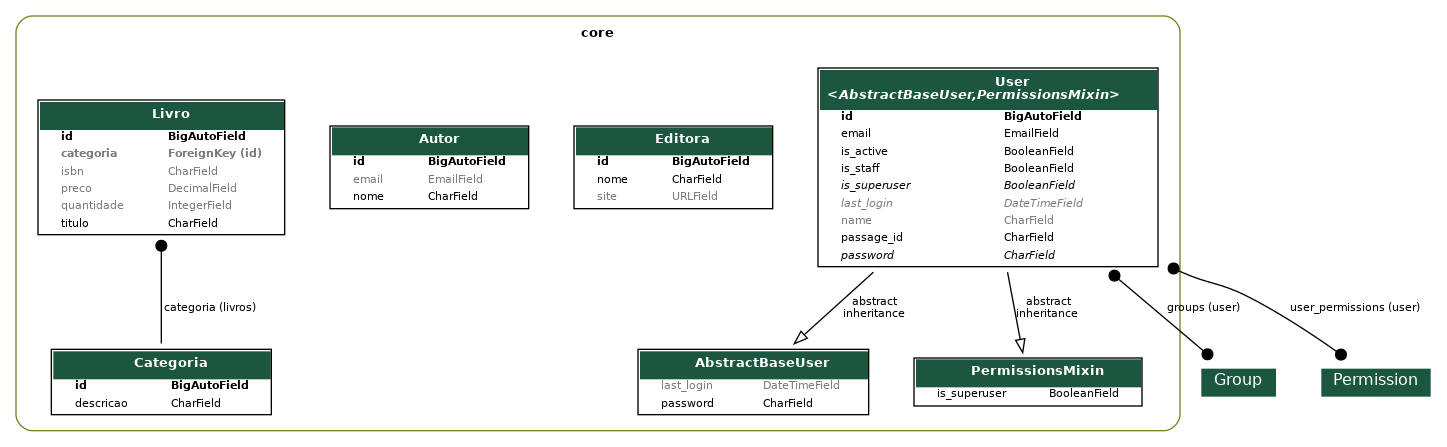
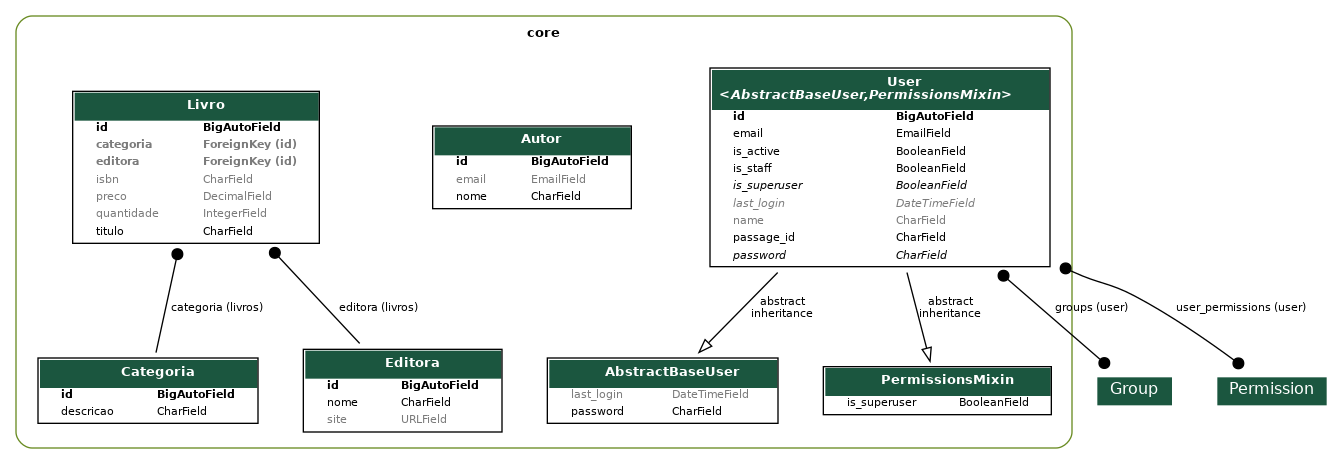
feat: inclusão do relacionamento de Livro com Editora.

diff --git a/core/models/livro.py b/core/models/livro.py
@@ -1,7 +1,8 @@
-from ast import mod
 from django.db import models
 from .categoria import Categoria
-from core.models import categoria
+from .editora import Editora
+from core.models import editora
+
 
 class Livro(models.Model):
     titulo = models.CharField(max_length=255)
@@ -9,6 +10,7 @@ class Livro(models.Model):
     quantidade = models.IntegerField(default=0,  null=True, blank=True)
     preco = models.DecimalField(max_digits=7, decimal_places=2, default=0, null=True, blank=True)
     categoria = models.ForeignKey(Categoria, on_delete=models.PROTECT, related_name="livros", null=True, blank=True)
+    editora = models.ForeignKey(Editora, on_delete=models.PROTECT, related_name="livros", null=True, blank=True)
 
     def __str__(self):
         return f"({self.id}) {self.titulo} ({self.quantidade})"

diff --git a/core/migrations/0010_livro_editora.py b/core/migrations/0010_livro_editora.py
@@ -1,0 +1,19 @@
+# Generated by Django 5.1.7 on 2025-04-15 11:51
+
+import django.db.models.deletion
+from django.db import migrations, models
+
+
+class Migration(migrations.Migration):
+
+    dependencies = [
+        ('core', '0009_livro_categoria'),
+    ]
+
+    operations = [
+        migrations.AddField(
+            model_name='livro',
+            name='editora',
+            field=models.ForeignKey(blank=True, null=True, on_delete=django.db.models.deletion.PROTECT, related_name='livros', to='core.editora'),
+        ),
+    ]
